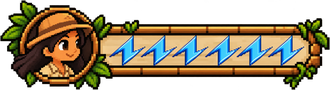
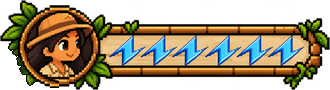
Energy bar portrait: each explorer's own face in a clean ring

Changed region(s): [[0.0, 0.5333, 0.1818, 0.9778]]

diff --git a/src/scenes/Platformer.js b/src/scenes/Platformer.js
@@ -2,20 +2,20 @@
 // from assets/svg/. Uses the level contract in levelApi.js, so the map,
 // quiz and save flow all work exactly as they will in the finished game.
 
-import { LEVELS, MAP_W, MAP_H } from '../data/world.js?v=2c098d1';
-import { TILE, layoutFor } from '../data/levels.js?v=2c098d1';
-import { state } from '../state.js?v=2c098d1';
-import { COLORS, heading, text } from '../theme.js?v=2c098d1';
-import { startQuiz, finishLevel, leaveLevel } from '../levelApi.js?v=2c098d1';
-import { TERRAIN_SETS, texKey, pick, tileHash, solidRole, roleFiles, platformRole, BLOCKS, BLOCK_COLORS, BLOCKS_SKY } from '../data/artsets.js?v=2c098d1';
-import { WildZebonky, GuideZebonky, zebonkyArt, ensureAnims, GRASS_SINK, LAND_DEPTH, WATER_DEPTH, layerFor } from '../actors.js?v=2c098d1';
-import { makeNav } from '../pathing.js?v=2c098d1';
-import { startQuestionRun } from '../data/questions.js?v=2c098d1';
-import { audio, musicButton, soundButton } from '../audio.js?v=2c098d1';
-import { Companion } from '../companion.js?v=2c098d1';
-import { startShowcase } from '../showcase.js?v=2c098d1';
-import { startExplorerTour } from '../explorerTour.js?v=2c098d1';
-import { LETTERS, lettersFound, findLetter, allLetters, currency, currencyIcon } from '../currency.js?v=2c098d1';
+import { LEVELS, MAP_W, MAP_H } from '../data/world.js?v=3ed34b2';
+import { TILE, layoutFor } from '../data/levels.js?v=3ed34b2';
+import { state } from '../state.js?v=3ed34b2';
+import { COLORS, heading, text } from '../theme.js?v=3ed34b2';
+import { startQuiz, finishLevel, leaveLevel } from '../levelApi.js?v=3ed34b2';
+import { TERRAIN_SETS, texKey, pick, tileHash, solidRole, roleFiles, platformRole, BLOCKS, BLOCK_COLORS, BLOCKS_SKY } from '../data/artsets.js?v=3ed34b2';
+import { WildZebonky, GuideZebonky, zebonkyArt, ensureAnims, GRASS_SINK, LAND_DEPTH, WATER_DEPTH, layerFor } from '../actors.js?v=3ed34b2';
+import { makeNav } from '../pathing.js?v=3ed34b2';
+import { startQuestionRun } from '../data/questions.js?v=3ed34b2';
+import { audio, musicButton, soundButton } from '../audio.js?v=3ed34b2';
+import { Companion } from '../companion.js?v=3ed34b2';
+import { startShowcase } from '../showcase.js?v=3ed34b2';
+import { startExplorerTour } from '../explorerTour.js?v=3ed34b2';
+import { LETTERS, lettersFound, findLetter, allLetters, currency, currencyIcon } from '../currency.js?v=3ed34b2';
 
 // Walking (the user, 2026-10-25): she builds up to speed instead of
 // starting at full speed, and letting go she slides a little before
@@ -2044,21 +2044,46 @@ export class PlatformerScene extends Phaser.Scene {
       // character covers it with her own head and shoulders, from her
       // first idle frame.
       {
-        const cx = 12 + 45;
-        const cy = 8 + 42;
+        // The portrait (the user, 2026-10-30): the bar's ring is filled
+        // solid, hiding the face printed in the bar, and her head goes in it,
+        // hat and hair overlapping the frame above and to the sides; the
+        // ring's circle cuts her off below. Ring centre and inner radius in
+        // the bar's own pixels.
+        const RX = 58.5;
+        const RY = 46.5;
+        const RR = 34;
+        const cx = 12 + RX;
+        const cy = 8 + RY;
         const key = `${this.cid}-portrait`;
         if (!this.textures.exists(key)) {
-          const D = 62;
+          const D = 100;                               // room around the ring for the overlap
+          const c0 = D / 2;
           const tex = this.textures.createCanvas(key, D, D);
           const ctx = tex.getContext();
-          ctx.imageSmoothingEnabled = false;
           ctx.fillStyle = '#e8cf98';
           ctx.beginPath();
-          ctx.arc(D / 2, D / 2, D / 2, 0, Math.PI * 2);
+          ctx.arc(c0, c0, RR, 0, Math.PI * 2);
           ctx.fill();
+          // her head: unclipped above the ring's middle, inside the circle below it
+          ctx.beginPath();
+          ctx.rect(0, 0, D, c0);
+          ctx.arc(c0, c0, RR, 0, Math.PI * 2);
           ctx.clip();
-          // Head and shoulders: the top of the first idle frame, doubled.
-          ctx.drawImage(this.textures.get(`${this.cid}-idle`).getSourceImage(), 14, 2, 43, 43, -12, -2, 86, 86);
+          const ex2 = this.cache.json.get(this.cid);
+          const pk = `${this.cid}-picker`;
+          ctx.imageSmoothingEnabled = true;            // shrinking it: smooth, not jagged
+          if (ex2 && ex2.portrait && this.textures.exists(pk)) {
+            // the manifest's `portrait` square [x, y, size] of the picker's
+            // first frame fills the ring; the rest of her head spills past it
+            const [px0, py0, ps] = ex2.portrait;
+            const k = (2 * RR) / ps;
+            const fw = ex2.anims.picker.frameWidth;
+            const fh = ex2.anims.picker.frameHeight;
+            ctx.drawImage(this.textures.get(pk).getSourceImage(), 0, 0, fw, fh,
+              c0 - RR - px0 * k, c0 - RR - py0 * k, fw * k, fh * k);
+          } else {
+            ctx.drawImage(this.textures.get(`${this.cid}-idle`).getSourceImage(), 14, 2, 43, 43, c0 - 43, c0 - 43, 86, 86);
+          }
           tex.refresh();
         }
         this.add.image(cx, cy, key).setScrollFactor(0).setDepth(21);

diff --git a/src/data/questions.js b/src/data/questions.js
@@ -15,23 +15,23 @@
 
 // This is the Explorer bank. Junior Explorer and Pioneer have their own
 // (questions_junior.js, questions_pioneer.js), copies of this one for now.
-import { JUNIOR_QUESTIONS } from './questions_junior.js?v=2c098d1';
-import { PIONEER_QUESTIONS } from './questions_pioneer.js?v=2c098d1';
-import dorsalJunior from './questions/dorsal_junior.js?v=2c098d1';
-import dorsalExplorer from './questions/dorsal_explorer.js?v=2c098d1';
-import dorsalPioneer from './questions/dorsal_pioneer.js?v=2c098d1';
-import cumulusJunior from './questions/cumulus_junior.js?v=2c098d1';
-import cumulusExplorer from './questions/cumulus_explorer.js?v=2c098d1';
-import cumulusPioneer from './questions/cumulus_pioneer.js?v=2c098d1';
-import squvannahsJunior from './questions/squvannahs_junior.js?v=2c098d1';
-import squvannahsExplorer from './questions/squvannahs_explorer.js?v=2c098d1';
-import squvannahsPioneer from './questions/squvannahs_pioneer.js?v=2c098d1';
-import seafoamJunior from './questions/seafoam_junior.js?v=2c098d1';
-import seafoamExplorer from './questions/seafoam_explorer.js?v=2c098d1';
-import seafoamPioneer from './questions/seafoam_pioneer.js?v=2c098d1';
-import magentaJunior from './questions/magenta_junior.js?v=2c098d1';
-import magentaExplorer from './questions/magenta_explorer.js?v=2c098d1';
-import magentaPioneer from './questions/magenta_pioneer.js?v=2c098d1';
+import { JUNIOR_QUESTIONS } from './questions_junior.js?v=3ed34b2';
+import { PIONEER_QUESTIONS } from './questions_pioneer.js?v=3ed34b2';
+import dorsalJunior from './questions/dorsal_junior.js?v=3ed34b2';
+import dorsalExplorer from './questions/dorsal_explorer.js?v=3ed34b2';
+import dorsalPioneer from './questions/dorsal_pioneer.js?v=3ed34b2';
+import cumulusJunior from './questions/cumulus_junior.js?v=3ed34b2';
+import cumulusExplorer from './questions/cumulus_explorer.js?v=3ed34b2';
+import cumulusPioneer from './questions/cumulus_pioneer.js?v=3ed34b2';
+import squvannahsJunior from './questions/squvannahs_junior.js?v=3ed34b2';
+import squvannahsExplorer from './questions/squvannahs_explorer.js?v=3ed34b2';
+import squvannahsPioneer from './questions/squvannahs_pioneer.js?v=3ed34b2';
+import seafoamJunior from './questions/seafoam_junior.js?v=3ed34b2';
+import seafoamExplorer from './questions/seafoam_explorer.js?v=3ed34b2';
+import seafoamPioneer from './questions/seafoam_pioneer.js?v=3ed34b2';
+import magentaJunior from './questions/magenta_junior.js?v=3ed34b2';
+import magentaExplorer from './questions/magenta_explorer.js?v=3ed34b2';
+import magentaPioneer from './questions/magenta_pioneer.js?v=3ed34b2';
 
 export const QUESTIONS = {
   dorsal: [

diff --git a/src/main.js b/src/main.js
@@ -1,15 +1,15 @@
-import { MAP_W, MAP_H } from './data/world.js?v=2c098d1';
-import { state } from './state.js?v=2c098d1';
-import { audio } from './audio.js?v=2c098d1';
-import { BootScene } from './scenes/Boot.js?v=2c098d1';
-import { OverworldScene } from './scenes/Overworld.js?v=2c098d1';
-import { PlatformerScene } from './scenes/Platformer.js?v=2c098d1';
-import { QuizScene } from './scenes/Quiz.js?v=2c098d1';
-import { BonusScene } from './scenes/Bonus.js?v=2c098d1';
-import { SaveMenuScene } from './scenes/SaveMenu.js?v=2c098d1';
-import { CharacterMenuScene } from './scenes/CharacterMenu.js?v=2c098d1';
-import { LevelEndScene } from './scenes/LevelEnd.js?v=2c098d1';
-import { takeLinkSave } from './savecode.js?v=2c098d1';
+import { MAP_W, MAP_H } from './data/world.js?v=3ed34b2';
+import { state } from './state.js?v=3ed34b2';
+import { audio } from './audio.js?v=3ed34b2';
+import { BootScene } from './scenes/Boot.js?v=3ed34b2';
+import { OverworldScene } from './scenes/Overworld.js?v=3ed34b2';
+import { PlatformerScene } from './scenes/Platformer.js?v=3ed34b2';
+import { QuizScene } from './scenes/Quiz.js?v=3ed34b2';
+import { BonusScene } from './scenes/Bonus.js?v=3ed34b2';
+import { SaveMenuScene } from './scenes/SaveMenu.js?v=3ed34b2';
+import { CharacterMenuScene } from './scenes/CharacterMenu.js?v=3ed34b2';
+import { LevelEndScene } from './scenes/LevelEnd.js?v=3ed34b2';
+import { takeLinkSave } from './savecode.js?v=3ed34b2';
 
 state.load();
 // Opened from a save link: the map asks before loading it.

diff --git a/src/scenes/Overworld.js b/src/scenes/Overworld.js
@@ -7,14 +7,14 @@
 // was answered (or a note says that's what earns it). A biome finished
 // before has an extra dot that leads back out to the whole map.
 
-import { LEVELS, PATHS, MAP_W, MAP_H, BIOMES, PLAY_BIOMES, biomeLevels } from '../data/world.js?v=2c098d1';
-import { state, pathKey } from '../state.js?v=2c098d1';
-import { COLORS, heading, text, makeButton } from '../theme.js?v=2c098d1';
-import { audio } from '../audio.js?v=2c098d1';
-import { starsFor, rewardTotals } from '../rewards.js?v=2c098d1';
-import { currency, currencyIcon } from '../currency.js?v=2c098d1';
-import { showCompanionCard } from '../companionCard.js?v=2c098d1';
-import { showDifficultyMenu } from '../difficultyMenu.js?v=2c098d1';
+import { LEVELS, PATHS, MAP_W, MAP_H, BIOMES, PLAY_BIOMES, biomeLevels } from '../data/world.js?v=3ed34b2';
+import { state, pathKey } from '../state.js?v=3ed34b2';
+import { COLORS, heading, text, makeButton } from '../theme.js?v=3ed34b2';
+import { audio } from '../audio.js?v=3ed34b2';
+import { starsFor, rewardTotals } from '../rewards.js?v=3ed34b2';
+import { currency, currencyIcon } from '../currency.js?v=3ed34b2';
+import { showCompanionCard } from '../companionCard.js?v=3ed34b2';
+import { showDifficultyMenu } from '../difficultyMenu.js?v=3ed34b2';
 
 const WALK_SPEED = 280;     // map px per second
 const DOT_SPACING = 18;     // px between paw prints on a path

diff --git a/src/scenes/Boot.js b/src/scenes/Boot.js
@@ -1,11 +1,11 @@
-import { ARTSETS, texKey } from '../data/artsets.js?v=2c098d1';
-import { testParams, DRAWN } from '../data/levels.js?v=2c098d1';
-import { playableLevelId, BIOMES, MAP_W, MAP_H } from '../data/world.js?v=2c098d1';
-import { CHARACTERS } from '../data/characters.js?v=2c098d1';
-import { state } from '../state.js?v=2c098d1';
-import { COLORS, heading, text } from '../theme.js?v=2c098d1';
-import { showcaseData, showcaseArtset } from '../showcase.js?v=2c098d1';
-import { explorerTourData, tourArtset, loadTourStrips } from '../explorerTour.js?v=2c098d1';
+import { ARTSETS, texKey } from '../data/artsets.js?v=3ed34b2';
+import { testParams, DRAWN } from '../data/levels.js?v=3ed34b2';
+import { playableLevelId, BIOMES, MAP_W, MAP_H } from '../data/world.js?v=3ed34b2';
+import { CHARACTERS } from '../data/characters.js?v=3ed34b2';
+import { state } from '../state.js?v=3ed34b2';
+import { COLORS, heading, text } from '../theme.js?v=3ed34b2';
+import { showcaseData, showcaseArtset } from '../showcase.js?v=3ed34b2';
+import { explorerTourData, tourArtset, loadTourStrips } from '../explorerTour.js?v=3ed34b2';
 
 export class BootScene extends Phaser.Scene {
   constructor() {

diff --git a/designer/designer.js b/designer/designer.js
@@ -1,10 +1,10 @@
-import { TILE_PX, TERRAIN, MARKERS, DOOR, WAIT, CRATES } from './legend.js?v=2c098d1';
-import { readDrawing } from './read-drawing.js?v=2c098d1';
-import { ARTSETS, BLOCKS } from '../src/data/artsets.js?v=2c098d1';
-import { LEVELS } from '../src/data/world.js?v=2c098d1';
-import { TEST_LAYOUT_KEY } from '../src/data/levels.js?v=2c098d1';
-import { backgroundGuide, tileSheet, svgToImage } from './guides.js?v=2c098d1';
-import { readArtistFiles } from './artist.js?v=2c098d1';
+import { TILE_PX, TERRAIN, MARKERS, DOOR, WAIT, CRATES } from './legend.js?v=3ed34b2';
+import { readDrawing } from './read-drawing.js?v=3ed34b2';
+import { ARTSETS, BLOCKS } from '../src/data/artsets.js?v=3ed34b2';
+import { LEVELS } from '../src/data/world.js?v=3ed34b2';
+import { TEST_LAYOUT_KEY } from '../src/data/levels.js?v=3ed34b2';
+import { backgroundGuide, tileSheet, svgToImage } from './guides.js?v=3ed34b2';
+import { readArtistFiles } from './artist.js?v=3ed34b2';
 
 const $ = (id) => document.getElementById(id);
 const PREVIEW_SCALE = 0.4;   // 64 px tile -> about 26 px on screen

diff --git a/src/scenes/CharacterMenu.js b/src/scenes/CharacterMenu.js
@@ -5,12 +5,12 @@
 // so far, the rest are ready for layered art (hair, hat, outfit, shoes) and
 // say "Soon". The stand-ins carry a note that they are temporary.
 
-import { MAP_W, MAP_H } from '../data/world.js?v=2c098d1';
-import { state } from '../state.js?v=2c098d1';
-import { COLORS, heading, text, makeButton } from '../theme.js?v=2c098d1';
-import { CHARACTERS, LOOK_SLOTS } from '../data/characters.js?v=2c098d1';
-import { audio } from '../audio.js?v=2c098d1';
-import { companionGrid } from '../companionPicker.js?v=2c098d1';
+import { MAP_W, MAP_H } from '../data/world.js?v=3ed34b2';
+import { state } from '../state.js?v=3ed34b2';
+import { COLORS, heading, text, makeButton } from '../theme.js?v=3ed34b2';
+import { CHARACTERS, LOOK_SLOTS } from '../data/characters.js?v=3ed34b2';
+import { audio } from '../audio.js?v=3ed34b2';
+import { companionGrid } from '../companionPicker.js?v=3ed34b2';
 
 const CARD_W = 980;
 const CARD_H = 640;

diff --git a/src/scenes/LevelEnd.js b/src/scenes/LevelEnd.js
@@ -8,11 +8,11 @@
 //   run: what this play did: { nodamage, tamed, questions, hasWild, hasCrates }
 //   levelData: set for a test run, to play it again
 
-import { MAP_W, MAP_H, LEVELS } from '../data/world.js?v=2c098d1';
-import { state } from '../state.js?v=2c098d1';
-import { COLORS, heading, text, makeButton } from '../theme.js?v=2c098d1';
-import { LETTERS, REWARDS, REWARD_EACH, award, paid, lettersFound, allLetters, currency } from '../currency.js?v=2c098d1';
-import { audio } from '../audio.js?v=2c098d1';
+import { MAP_W, MAP_H, LEVELS } from '../data/world.js?v=3ed34b2';
+import { state } from '../state.js?v=3ed34b2';
+import { COLORS, heading, text, makeButton } from '../theme.js?v=3ed34b2';
+import { LETTERS, REWARDS, REWARD_EACH, award, paid, lettersFound, allLetters, currency } from '../currency.js?v=3ed34b2';
+import { audio } from '../audio.js?v=3ed34b2';
 
 export class LevelEndScene extends Phaser.Scene {
   constructor() {

diff --git a/src/scenes/Quiz.js b/src/scenes/Quiz.js
@@ -2,12 +2,12 @@
 // A wrong answer fades out and pops up the hint, and the child tries again
 // until they find it. The right answer saves the treasure.
 
-import { LEVELS, MAP_W, MAP_H } from '../data/world.js?v=2c098d1';
-import { drawQuestion } from '../data/questions.js?v=2c098d1';
-import { state } from '../state.js?v=2c098d1';
-import { COLORS, heading, text, makeButton } from '../theme.js?v=2c098d1';
-import { audio } from '../audio.js?v=2c098d1';
-import { showCompanionCard } from '../companionCard.js?v=2c098d1';
+import { LEVELS, MAP_W, MAP_H } from '../data/world.js?v=3ed34b2';
+import { drawQuestion } from '../data/questions.js?v=3ed34b2';
+import { state } from '../state.js?v=3ed34b2';
+import { COLORS, heading, text, makeButton } from '../theme.js?v=3ed34b2';
+import { audio } from '../audio.js?v=3ed34b2';
+import { showCompanionCard } from '../companionCard.js?v=3ed34b2';
 
 const LETTERS = ['A', 'B', 'C', 'D'];
 

diff --git a/src/state.js b/src/state.js
@@ -2,10 +2,10 @@
 // Storage can be missing or blocked (private windows, previews), so every
 // read and write is guarded and the game still runs without it.
 
-import { LEVELS, PATHS, START_NODE, PLAY_BIOMES, biomeLevels } from './data/world.js?v=2c098d1';
-import { DEFAULT_DIFFICULTY, difficultyById } from './data/difficulty.js?v=2c098d1';
-import { DEFAULT_CHARACTER, characterById } from './data/characters.js?v=2c098d1';
-import { bankFor, questionKey } from './data/questions.js?v=2c098d1';
+import { LEVELS, PATHS, START_NODE, PLAY_BIOMES, biomeLevels } from './data/world.js?v=3ed34b2';
+import { DEFAULT_DIFFICULTY, difficultyById } from './data/difficulty.js?v=3ed34b2';
+import { DEFAULT_CHARACTER, characterById } from './data/characters.js?v=3ed34b2';
+import { bankFor, questionKey } from './data/questions.js?v=3ed34b2';
 
 const KEY = 'zebonky-tms-save-v1';
 

diff --git a/src/savecode.js b/src/savecode.js
@@ -19,10 +19,10 @@
 // reordered), or when more is packed in (the shop): old links then say so
 // instead of loading the wrong levels.
 
-import { LEVELS, PATHS, START_NODE, PLAY_BIOMES } from './data/world.js?v=2c098d1';
-import { state, pathKey } from './state.js?v=2c098d1';
-import { bankFor, questionKey } from './data/questions.js?v=2c098d1';
-import { LETTERS, REWARDS } from './currency.js?v=2c098d1';
+import { LEVELS, PATHS, START_NODE, PLAY_BIOMES } from './data/world.js?v=3ed34b2';
+import { state, pathKey } from './state.js?v=3ed34b2';
+import { bankFor, questionKey } from './data/questions.js?v=3ed34b2';
+import { LETTERS, REWARDS } from './currency.js?v=3ed34b2';
 
 // 3 added the answered questions; 4 the currency and its level rewards
 // (the user, 2026-10-30). Version 2 and 3 links still load, without them.

diff --git a/src/difficultyMenu.js b/src/difficultyMenu.js
@@ -4,11 +4,11 @@
 // (data/difficulty.js `about`). "Play this way" chooses it; Done or Escape
 // closes the screen.
 
-import { MAP_W, MAP_H } from './data/world.js?v=2c098d1';
-import { DIFFICULTIES } from './data/difficulty.js?v=2c098d1';
-import { state } from './state.js?v=2c098d1';
-import { COLORS, heading, text, makeButton } from './theme.js?v=2c098d1';
-import { audio } from './audio.js?v=2c098d1';
+import { MAP_W, MAP_H } from './data/world.js?v=3ed34b2';
+import { DIFFICULTIES } from './data/difficulty.js?v=3ed34b2';
+import { state } from './state.js?v=3ed34b2';
+import { COLORS, heading, text, makeButton } from './theme.js?v=3ed34b2';
+import { audio } from './audio.js?v=3ed34b2';
 
 export function showDifficultyMenu(scene, onClose) {
   const layer = scene.add.container(0, 0).setDepth(60);
